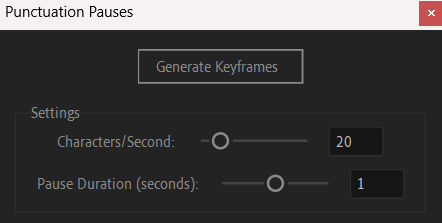
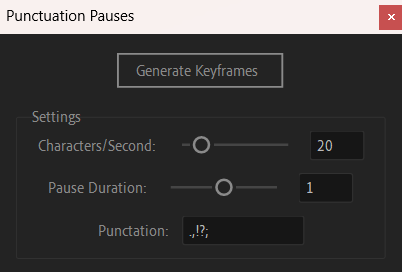
changed picture, added punctuation mark field

diff --git a/PunctuationPauses.jsx b/PunctuationPauses.jsx
@@ -63,6 +63,11 @@ pauseSlider.onChanging = function()
 }
 
 
+var punctuationGroup = panel.add("group", undefined, "");
+punctuationGroup.orientation = "row";
+var punctuationText = punctuationGroup.add("statictext", undefined, "Punctation: ");
+var punctuationEditText = punctuationGroup.add("edittext", undefined, ".,!?;");
+punctuationEditText.characters = 7;
 
 window.center();
 window.show();
@@ -93,12 +98,10 @@ function modifyLayers()
 
     var advancedSettings = layer.selectedProperties[0].property("ADBE Text Animators").property(1).property("ADBE Text Selectors").property(1).property("ADBE Text Range Advanced");
     var basedOn = advancedSettings.property("ADBE Text Range Type2").value;
-    //alert(layer.selectedProperties[0].matchName);
 
     
     
-    var punctuation = ".,!?;";
-
+    var punctuation = punctuationEditText.text;
 
     //remove the newline characters from the string
     var plainText = sourceText.value.text.replace(/\r/g,"");
@@ -138,12 +141,6 @@ function modifyLayers()
 
     
     //create ending keyframe
-    /*
-    alert("Plaintext Length = " + plainText.length +"\nDuration without pauses = " + (plainText.length/ charsPerSec)
-    + "\nThere are " + indices.length + " pauses for a total of " + indices.length*pauseSlider.value + " seconds"
-    + "The final keyframe should be at " + ((plainText.length / charsPerSec)+ indices.length*pauseSlider.value) );
-    */
-
     keyIndex = start.addKey( (plainText.length / charsPerSec)+ indices.length*pauseSlider.value ); 
     start.setValueAtKey(keyIndex, plainText.length);
     start.setInterpolationTypeAtKey(keyIndex, KeyframeInterpolationType.LINEAR);
@@ -152,9 +149,6 @@ function modifyLayers()
     {
         var headPos = (indices[i]/charsPerSec) + pauseSlider.value*i;
         var tailPos = ( (indices[i])/charsPerSec)  + pauseSlider.value*(i+1);
-
-        //alert("head should be at time " + indices[i]/charsPerSec 
-        //+ "\ntail should be at time " + (( (indices[i] + offsets[i])/charsPerSec)  + pauseSlider.value));
 
         var key1 = start.addKey( headPos  );
         start.setValueAtKey(key1, indices[i]);
@@ -166,37 +160,6 @@ function modifyLayers()
 
     }
     
-/*
-    var headPos = (indices[i] + offsets[i])/charsPerSec;
-    var tailPos = ( (indices[i] + offsets[i])/charsPerSec)  + pauseSlider.value;
-
-    var key1 = start.addKey( headPos  );
-    start.setValueAtKey(key1, indices[i]);
-    start.setInterpolationTypeAtKey(key1, KeyframeInterpolationType.LINEAR);     
-
-    var key2 = start.addKey( tailPos );
-    start.setValueAtKey(key2, indices[i] );
-    start.setInterpolationTypeAtKey(key2, KeyframeInterpolationType.LINEAR);
-*/
-
-
-    /* BRUTE FORCE VERSION - WORKS
-    //this places a hold keyframe at every index in the string, and will skip forward when it hits punctuation to create the "pause"
-    var delayOffset = 0;
-    for(var i = 0; i < plainText.length; i++)
-    {
-        var keyIndex = start.addKey(comp.frameDuration*(i+delayOffset));
-
-        start.setValueAtKey(keyIndex, i);
-        start.setInterpolationTypeAtKey(keyIndex, KeyframeInterpolationType.HOLD);
-
-        if ( i > 0 && contains( puncuation, plainText[i-1] ) )
-        {
-            delayOffset += 20;
-        }
-
-    }
-    */
 }
 
 function containsPunctuation(punctuation, str  )
